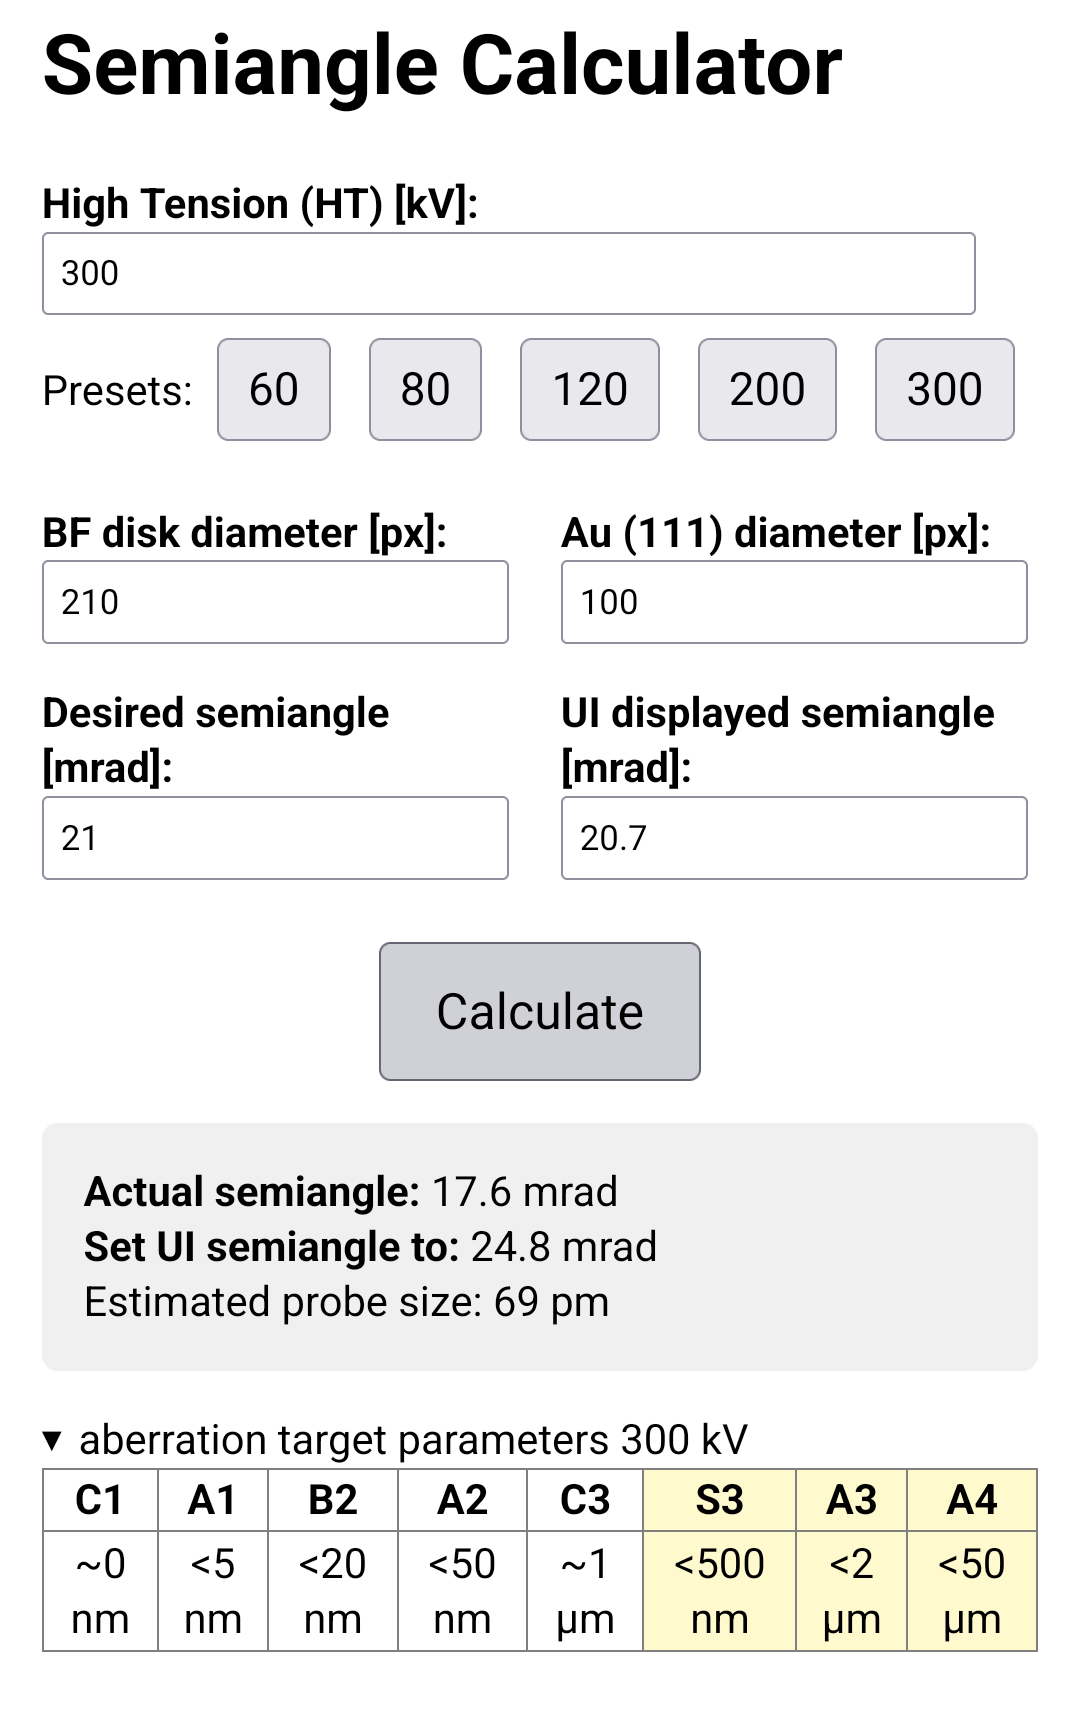
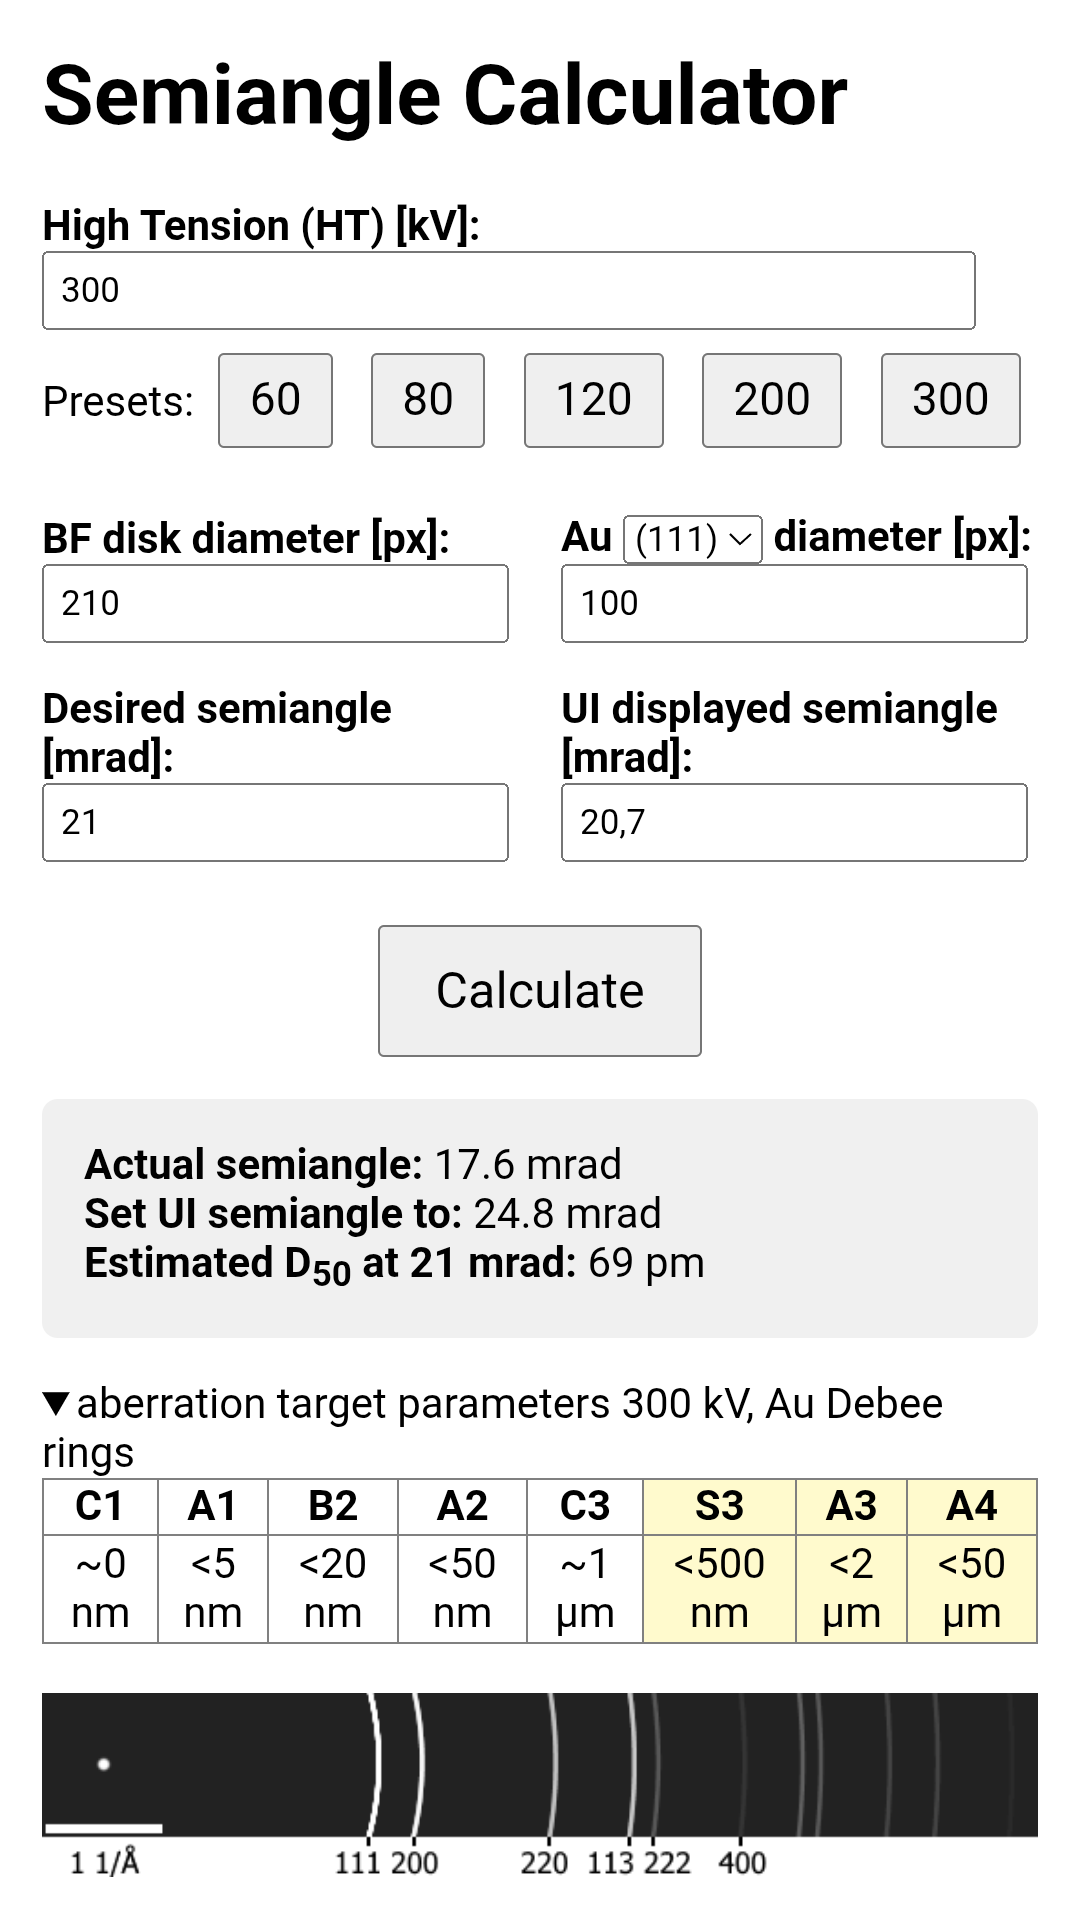
fixed width of Debye ring preview, updated screenshot

Changed region(s): [[0.0306, 0.1548, 0.9778, 0.9907], [0.0306, 0.0, 0.7944, 0.4953]]

diff --git a/index.html b/index.html
@@ -133,8 +133,8 @@
         </tr>
       </table><br>
       <center>
[1 lines of base64/hex data omitted]
-      </center>
[1 lines of base64/hex data omitted]
+      alt="Debye rings of Au, simulated with ReciPro" style="width: 100%;"></center>
     </details>
   </div>
 

diff --git a/README.md b/README.md
@@ -3,8 +3,8 @@ Browser based tool to calculate the semiangle for scanning transmission electron
 [You can try it on GitHub pages.](https://rbtrrnss.github.io/semiangle/)  
 
 ## Interface  
-The interface works on desktops and mobile browsers, users need to provide basic reference parameters of the BF disk and Au (111) diameter, then the actual probe semi convergence angle can be calculated.  
-Hovering over the aberration parameters shows additional hints by alt texts/tooltips. The calculation is done in javascript.  
+The interface works on desktops and mobile browsers, users need to provide basic reference parameters of the BF disk and a Au Debye ring diameter (selectable d-spacing), then the actual probe semi convergence angle can be calculated.  
+Hovering over the aberration parameters shows additional hints by alt texts/tooltips. The hidden section also contains simulated Debye rings (simulation was done in [ReciPro](https://github.com/seto77/ReciPro)). The calculation is done in javascript.  
   
 [<img src="screenshot.png" height="600"/>](screenshot.png "screenshot of the semiangle calculator, it includes input fields for high tension, BF disk diameter, Au (111) diameter, desired semiangle and the angle that the UI displays, there are also the results shown as well as a summary of desired aberration parameters") 
   
